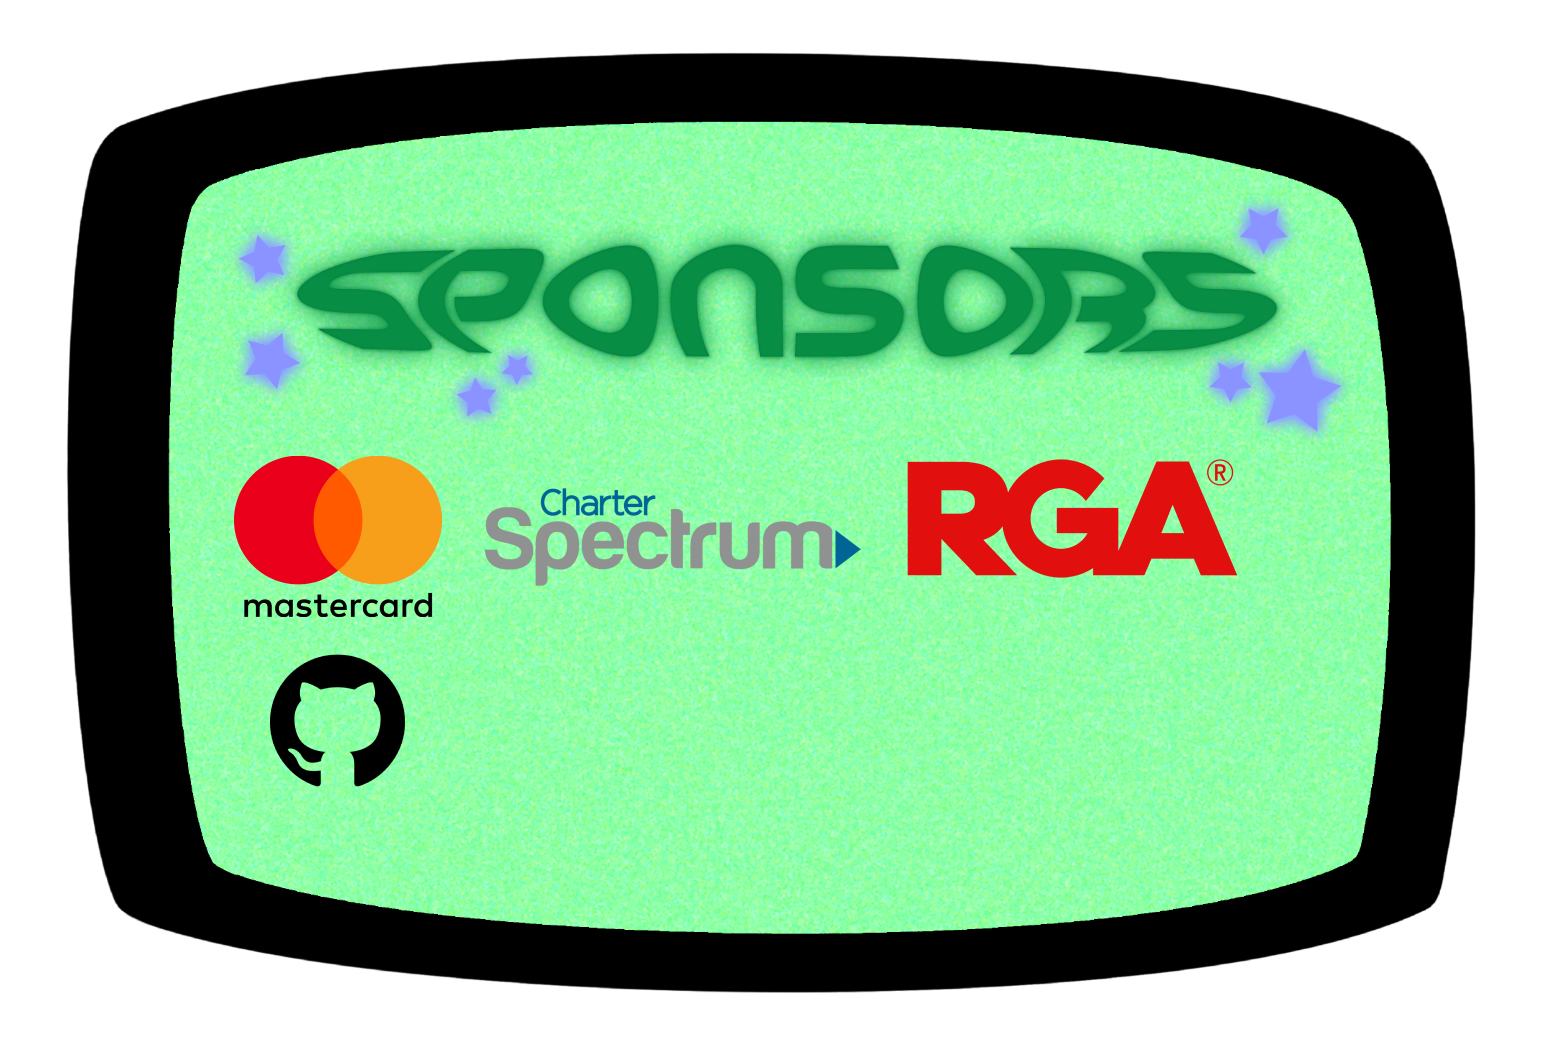
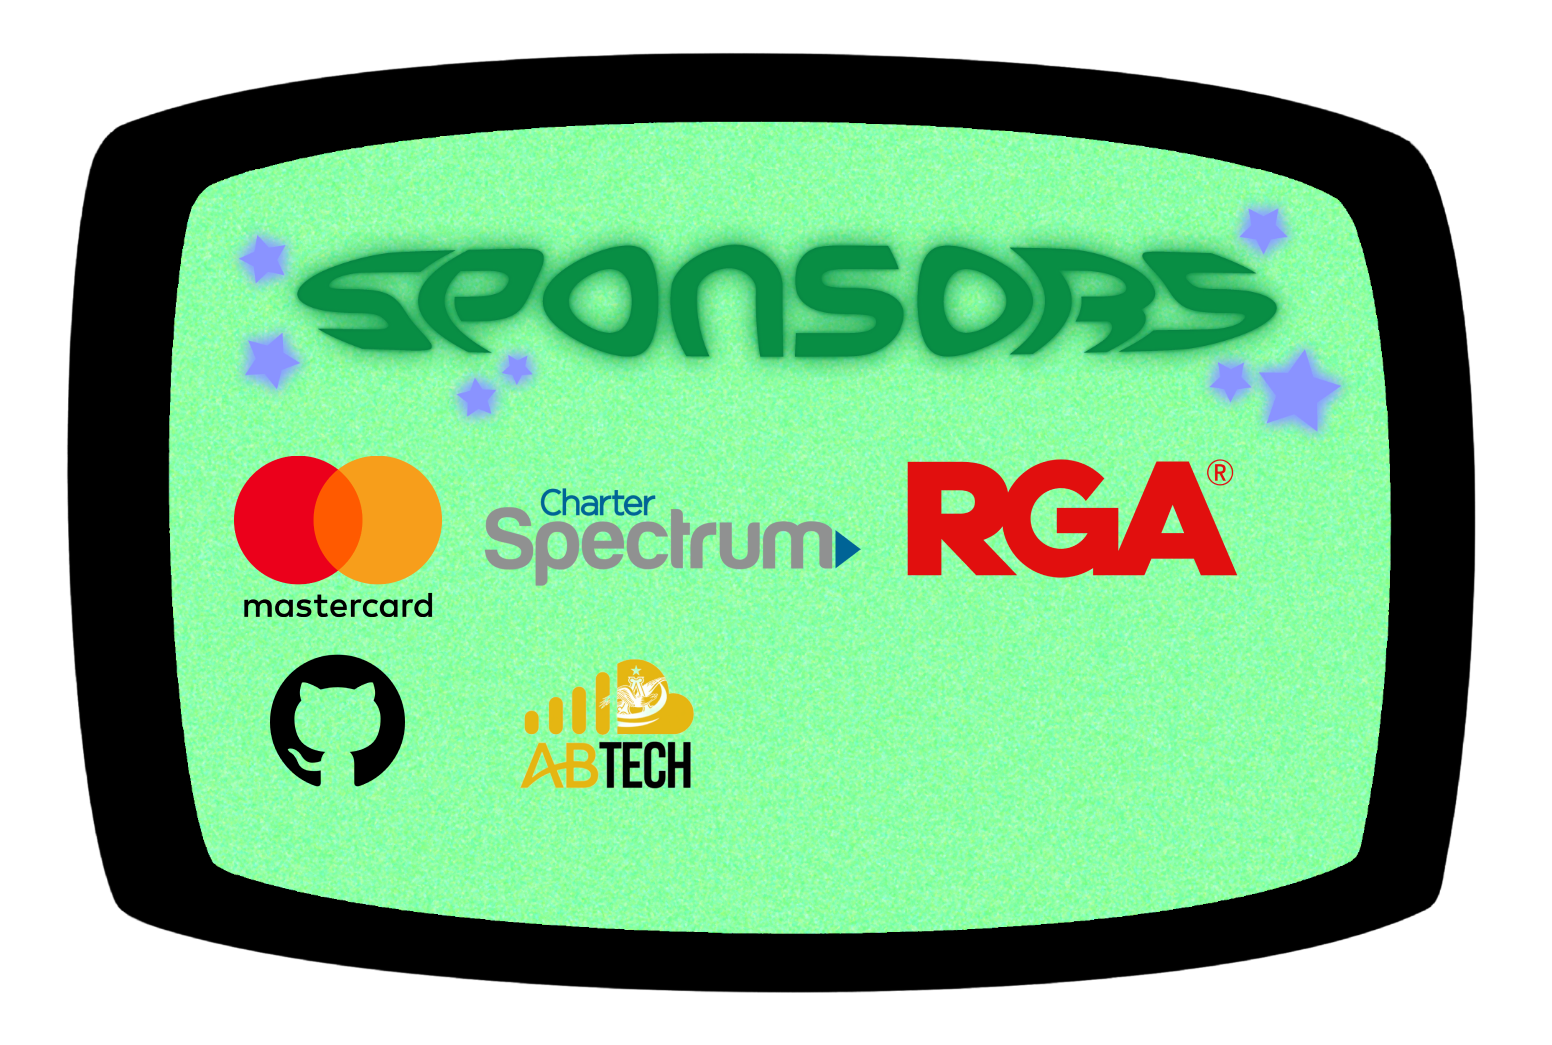
added ab tech as a sponsor and cleaned up stars

Changed region(s): [[0.3402, 0.6124, 0.4639, 0.7656]]

diff --git a/src/components/Sponsor.vue b/src/components/Sponsor.vue
@@ -60,7 +60,7 @@
   #stars-5,
   #stars-6,
   #stars-7 {
-    z-index: 10;
+    z-index: -2;
   }
 
   #purple {
